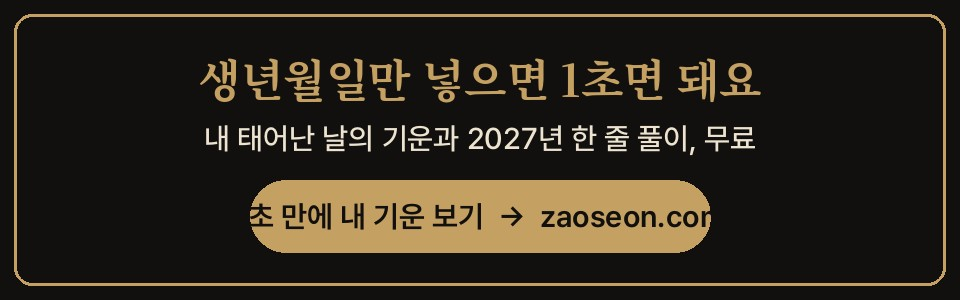
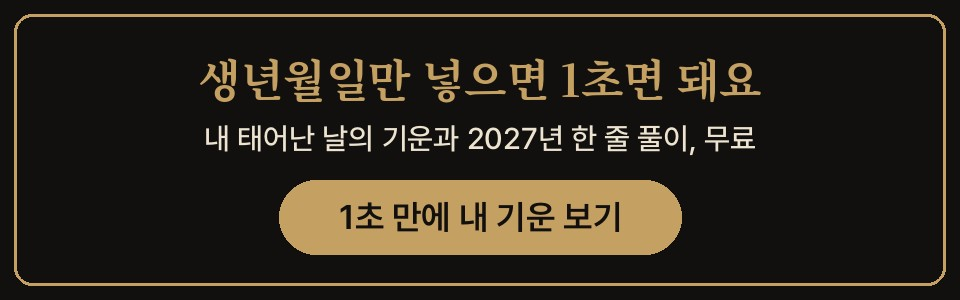
네이버 CTA 배너: 버튼 글자만, 링크는 이미지에

Changed region(s): [[0.25, 0.6, 0.75, 0.84], [0.3125, 0.84, 0.6875, 0.87]]

diff --git a/naver/build_naver_04_07.py b/naver/build_naver_04_07.py
@@ -6,7 +6,7 @@ OUT = os.path.join(os.path.dirname(os.path.abspath(__file__)), "img")
 def H(t): return f'<p>&nbsp;</p><p><span style="font-size:22px"><b>{t}</b></span></p>'
 def P(*lines): return "<p>" + "<br>".join(lines) + "</p>"
 def IMG(f): return f"<p>[이미지: {f}]</p>"
-END = IMG("naver_cta_1초무료풀이.jpg") + P("👉 <b>1초 만에 내 기운 보기: https://zaoseon.com/?utm_source=naver&amp;utm_medium=cta#free</b>")
+END = IMG("naver_cta_1초무료풀이.jpg")  # 링크는 배너 이미지에 건다(글자 링크 없음)
 POSTS = []
 
 # ---------- 4편 양띠 ----------
